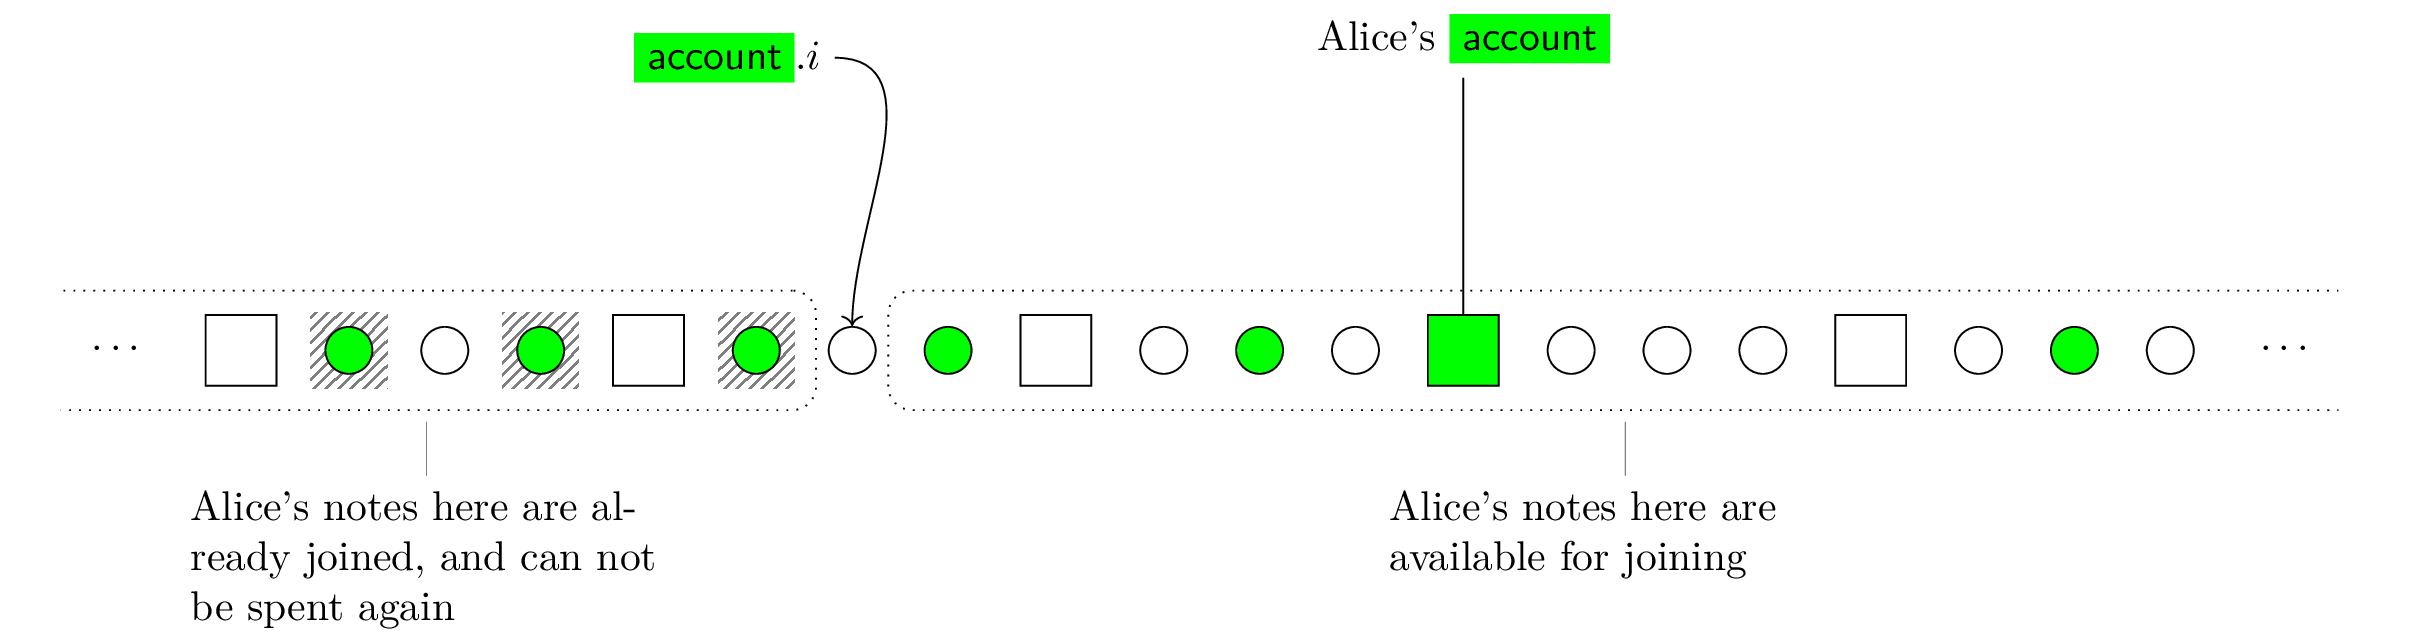
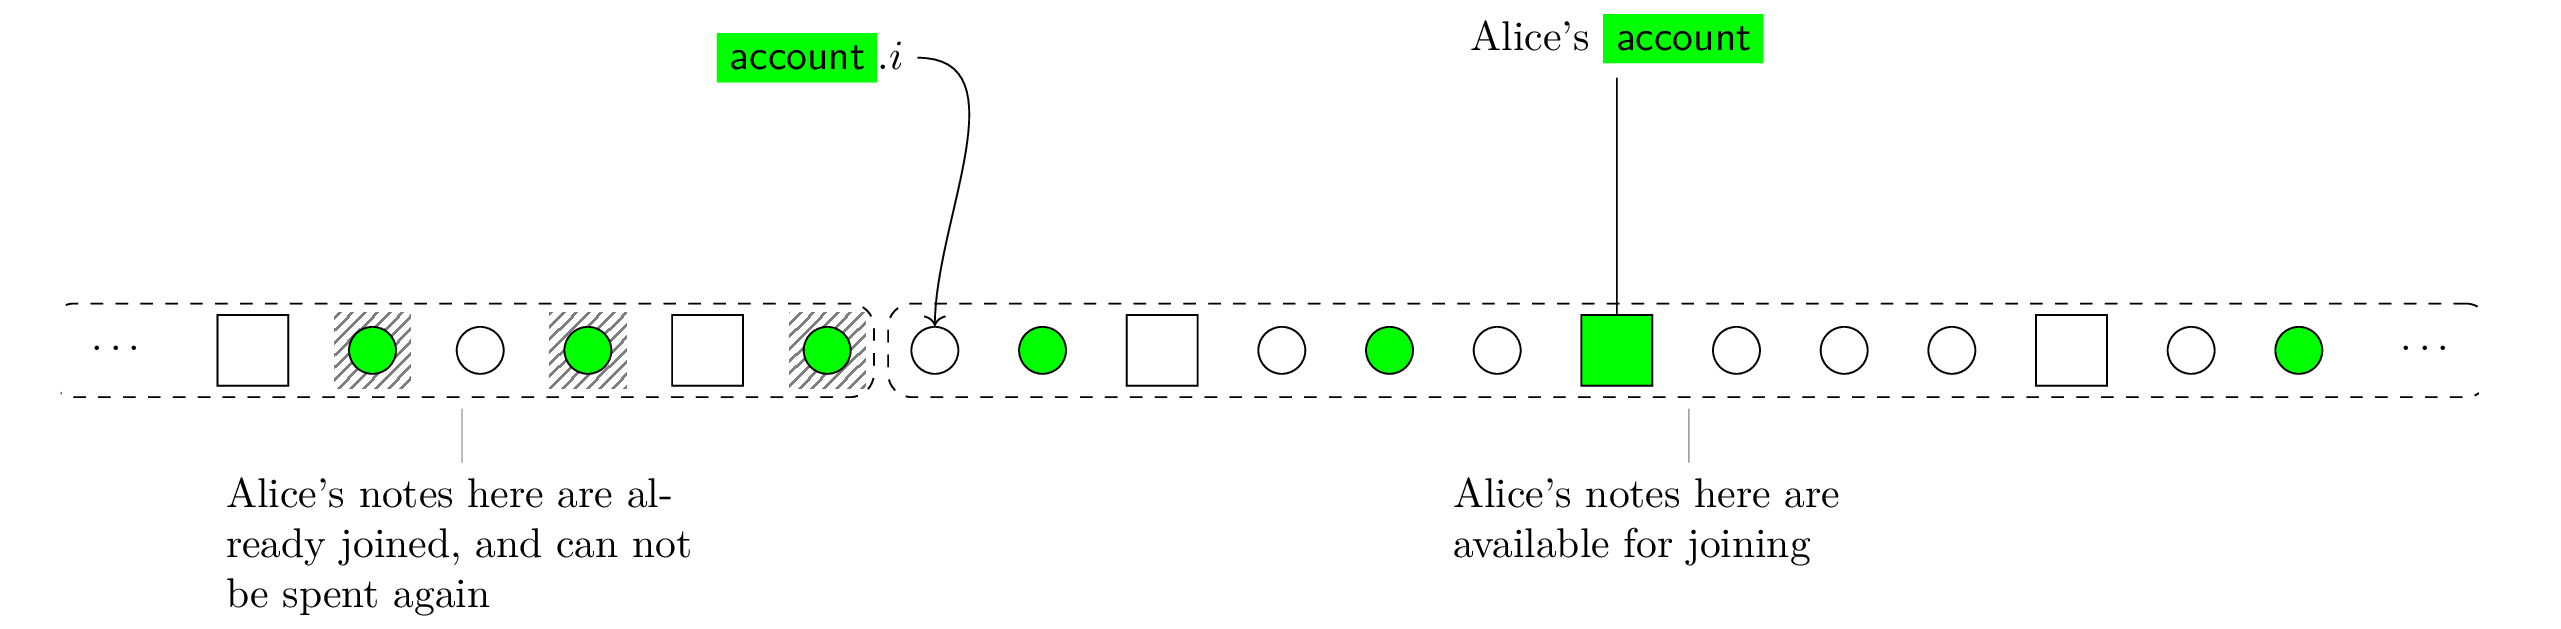
Make sure that spent offset is included in availabe area

diff --git a/docs/new-docs/diagrams/account-spent-offset/main.tex b/docs/new-docs/diagrams/account-spent-offset/main.tex
@@ -14,14 +14,14 @@
     note/.style={draw,circle,minimum size=2mm},
     spentMarker/.style={pattern=north east lines,pattern color=gray},
     boxAround/.style={
-      rectangle,draw,dotted,rounded corners=0.2cm,inner sep=3mm,outer sep=1mm,
+      rectangle,draw,dashed,rounded corners=0.2cm,inner sep=1.9mm,outer sep=1mm,
     },
   }
 % \tikzcdset{column sep/normal=0.2cm}
 \begin{document}
   \begin{tikzcd}[
     % row sep=normal,
-    column sep=4mm,
+    column sep=5mm,
     ampersand replacement=\&,
     nodes in empty cells,
     execute at end picture={
@@ -47,7 +47,7 @@
         \node[fit=(leftInf)(consumedThree),boxAround,pin={[text width=4cm,font=\normalsize]-90:{
           Alice's notes here are already joined, and can not be spent again
         }}] (boxLeft) {};
-        \node[fit=(unconsumedOne)(rightInf),boxAround,pin={[text width=4cm,font=\normalsize]-90:{
+        \node[fit=(spentOffset)(rightInf),boxAround,pin={[text width=4cm,font=\normalsize]-90:{
           Alice's notes here are available for joining
         }}] (boxRight) {};
         %
@@ -77,7 +77,7 @@
     |[account]| \&
     |[note]| \&
     |[note,fill=green]| \&
-    |[note]| \&
+    % |[note]| \&
     |[alias=rightInf]| \dots \&
     \\
   \end{tikzcd}
